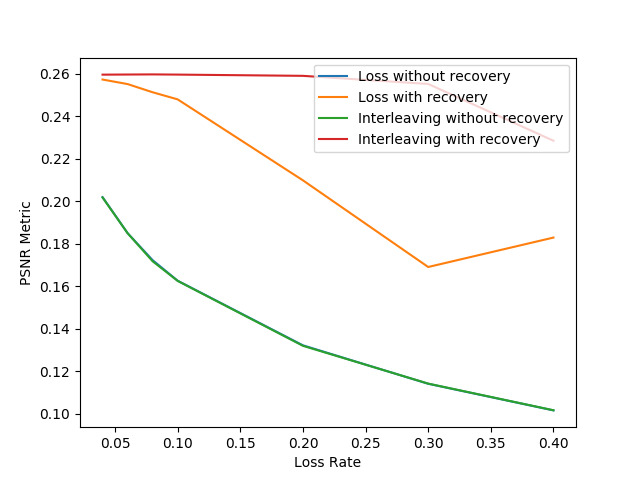
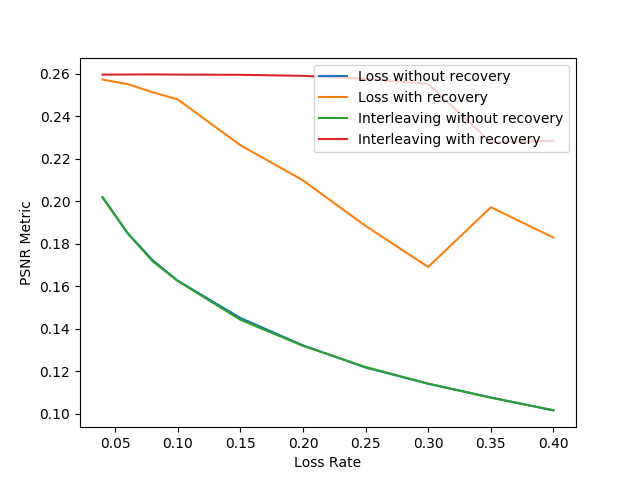
final changes

diff --git a/ml_metric.py b/ml_metric.py
@@ -143,7 +143,7 @@ def get_all_ml_result(path, name_list, loss_rate_list, attribute_dict, model, mo
         dataset_result[loss_rate] = loss_rate_result
         print(dataset_result)
 
-    pickle.dump(dataset_result, open('data_ml.pkl', 'wb'))
+    pickle.dump(dataset_result, open('data_ml_'+model_name+'.pkl', 'wb'))
     return dataset_result
 
 
@@ -177,9 +177,9 @@ def parse_ml_result(dataset_result, metric):
     plt.plot(loss_rate_list, interleave_list, label="Interleaving without recovery")
     plt.plot(loss_rate_list, interleave_fix_list, label="Interleaving with recovery")
 
-    plt.legend(loc='upper right')
+    plt.legend(loc='lower left')
     plt.xlabel('Loss Rate')
-    plt.ylabel('Top 5 Accuracy for model '+metric)
+    plt.ylabel('Top 5 Accuracy of InceptionResNetV2')
     plt.savefig(metric+'_top_1_acc_vs_loss_rate.png')
     plt.gcf().clear()
 
@@ -187,7 +187,7 @@ if __name__ == "__main__":
     name_list = ["airplane", "automobile", "bird", "cat", "deer",
                  "dog", "frog", "horse", "ship", "truck"]
     # name_list = ["airplane"]
-    loss_rate_list = [0.00, 0.02, 0.04, 0.06, 0.08, 0.10, 0.2, 0.3, 0.4]
+    loss_rate_list = [0.00, 0.02, 0.04, 0.06, 0.08, 0.10, 0.15, 0.2, 0.25, 0.3, 0.35, 0.4]
 
     attribute_dict = pickle.load(open("gt_attr.pkl", 'rb'))
 
@@ -201,7 +201,7 @@ if __name__ == "__main__":
     emulator_file_list_at_all_loss_rate(path, file_list, loss_rate_list, redo=False)
 
     print("Getting results")
-    model_name = "mobilenet"
+    model_name = "inception_resnet_v2"
     model = get_model(model_name = model_name ,model_fn_mapping = model_fn_mapping)
     dataset_result = get_all_ml_result(path, name_list, loss_rate_list, attribute_dict, model, model_name)
 

diff --git a/image_to_quality.py b/image_to_quality.py
@@ -14,7 +14,7 @@ file_list = ["airplane", "automobile", "bird", "cat", "deer",
              "dog", "frog", "horse", "ship", "truck"]
 # loss_rate_list = [0.02, 0.04, 0.06, 0.08, 0.10, 0.2, 0.3]
 # loss_rate_list = [0.00, 0.02, 0.04, 0.06, 0.08, 0.10, 0.2, 0.3, 0.4]
-loss_rate_list = [0.04, 0.06, 0.08, 0.10, 0.2, 0.3, 0.4]
+loss_rate_list = [0.04, 0.06, 0.08, 0.10, 0.15, 0.2, 0.25, 0.3, 0.35, 0.4]
 quality_metric_list = ["vifp", "psnr", "ssim"]
 
 # use numpy array to get three quality
